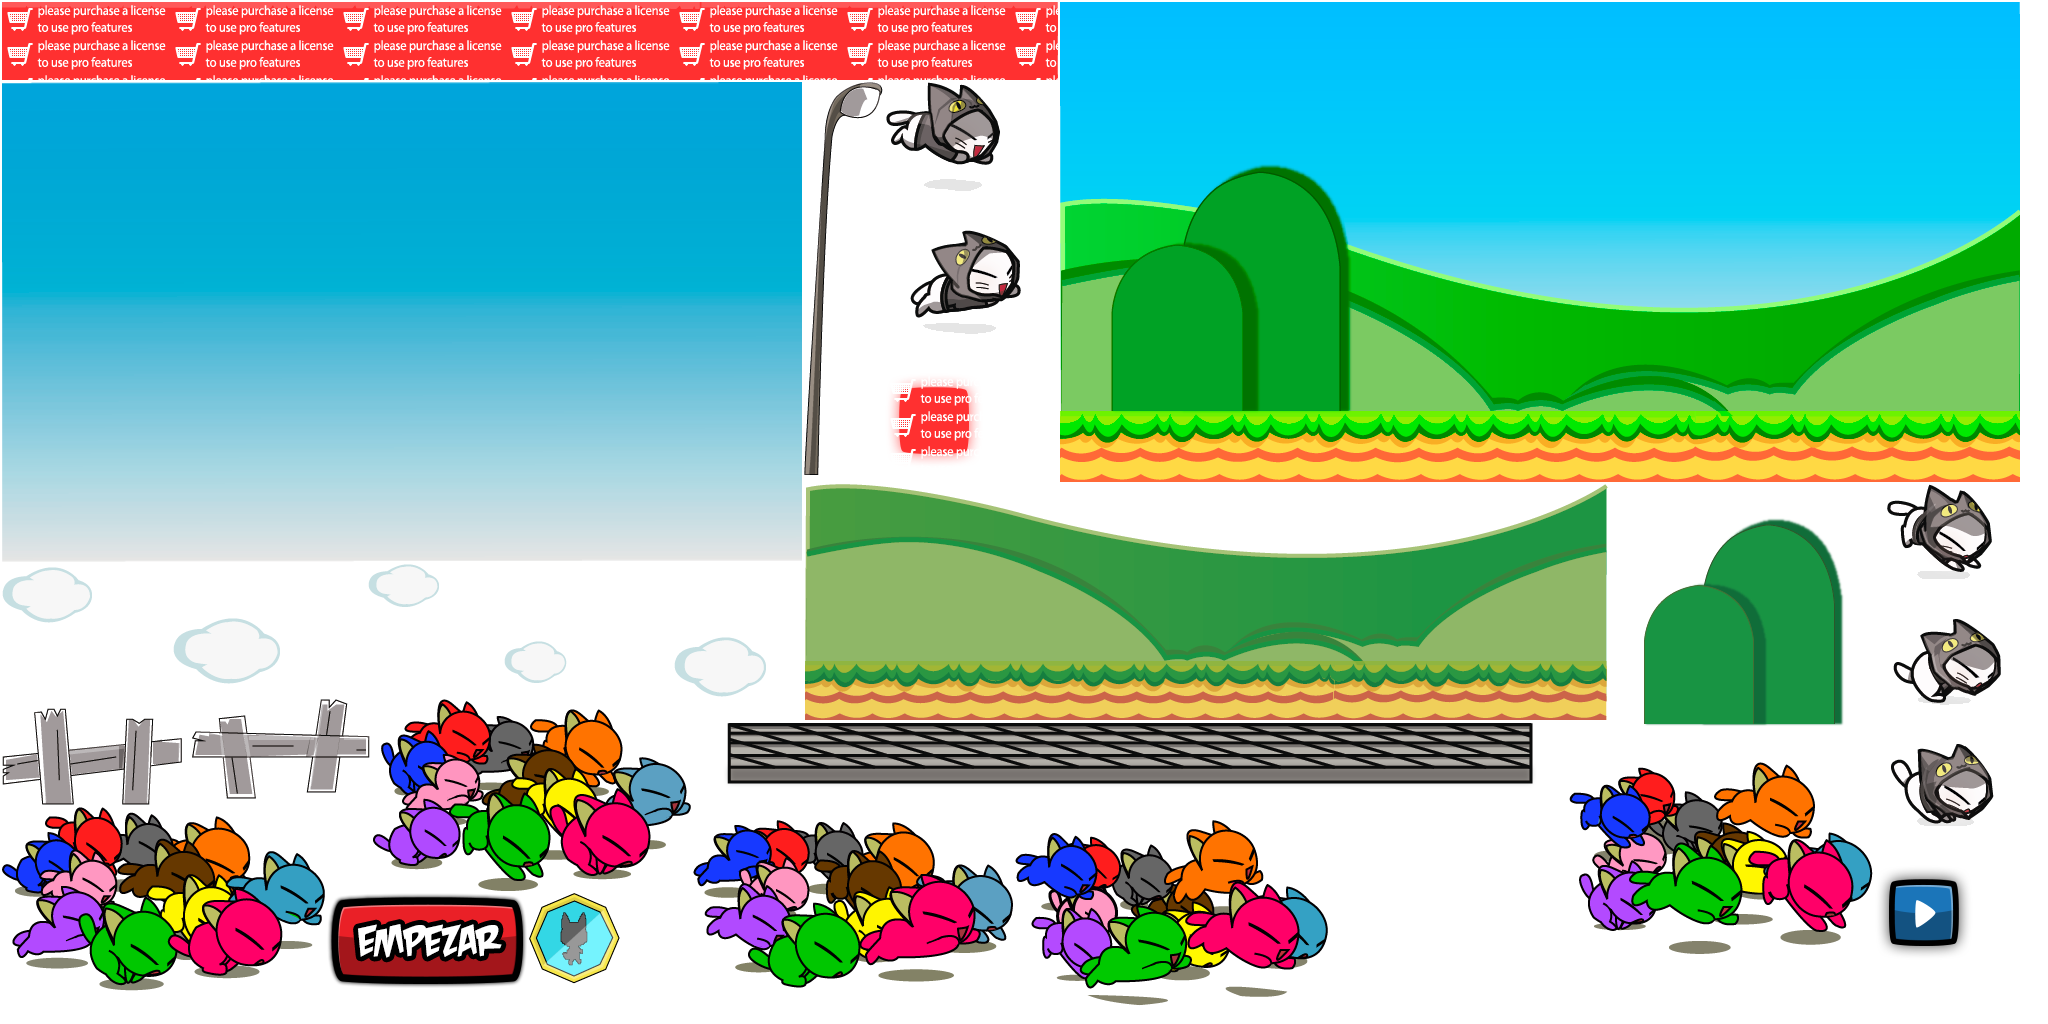
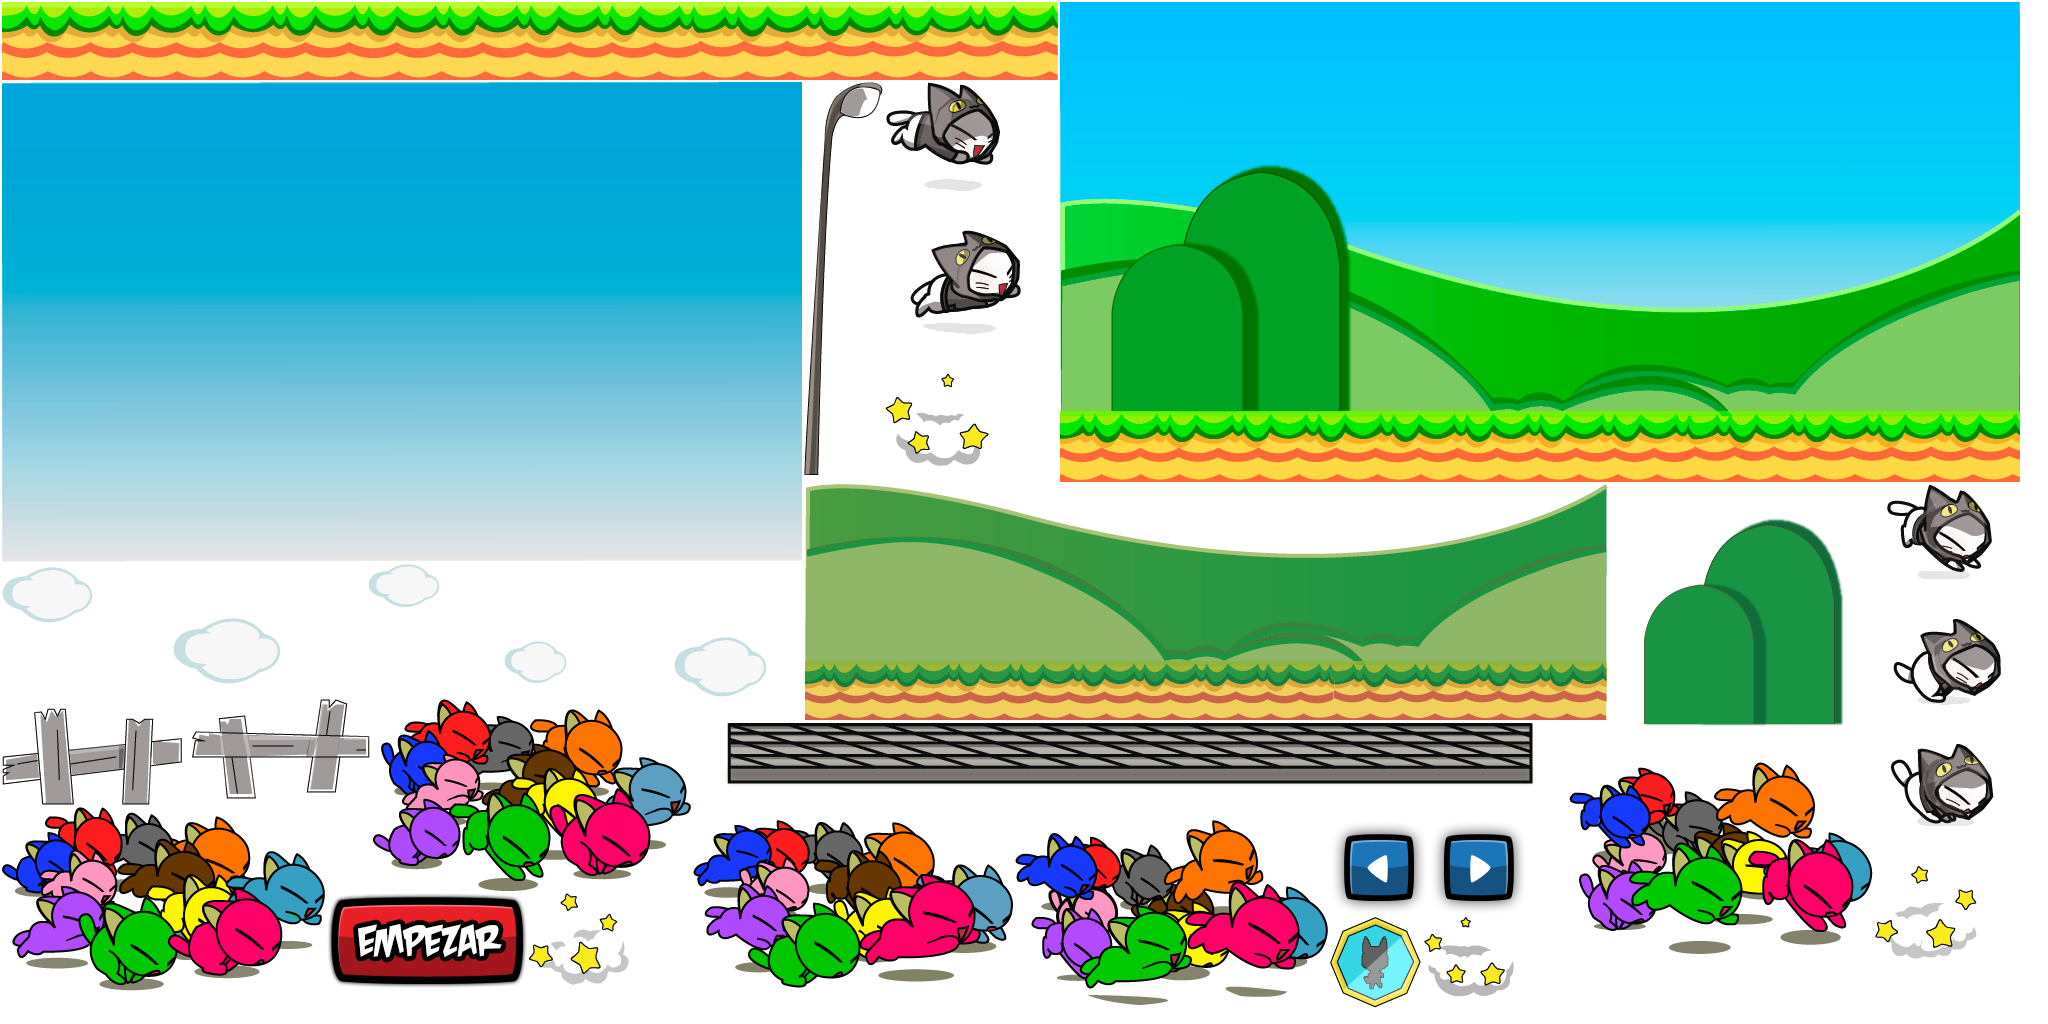
agregue la animacion de peleas

diff --git a/Shoppu/src/com/me/game/GameScreen.java b/Shoppu/src/com/me/game/GameScreen.java
@@ -2,6 +2,8 @@ package com.me.game;
 
 import com.badlogic.gdx.Gdx;
 import com.badlogic.gdx.Input.Keys;
+import com.badlogic.gdx.graphics.g2d.TextureAtlas.AtlasRegion;
+import com.badlogic.gdx.scenes.scene2d.ui.Button;
 import com.me.mygdxgame.Assets;
 import com.me.mygdxgame.MainShoppu;
 import com.me.screens.MainMenu;
@@ -10,6 +12,8 @@ import com.sun.corba.se.impl.encoding.CodeSetConversion.BTCConverter;
 
 public class GameScreen extends Screens {
 
+	Button btTryAgain, btLeaderBoards, btShop;
+	
 	public enum State {ready,running,gameover}
 	WorldGame oWorld;
 	WorldGameRender renderer;
@@ -21,6 +25,7 @@ public class GameScreen extends Screens {
 			oWorld = new WorldGame();
 			renderer = new WorldGameRender(batcher,oWorld);
 			state = State.ready;
+			InicializarGameOver();
 	}
 
 	@Override
@@ -89,7 +94,11 @@ public class GameScreen extends Screens {
 	}
 
 	private void drawgameover(float delta) {
-		Assets.Font.draw(batcher, "Haz perdido", 100, 200);		
+		Assets.Font.draw(batcher, "Haz perdido", 100, 200);	
+			
+	}
+	private void InicializarGameOver()
+	{
 		
 	}
 
